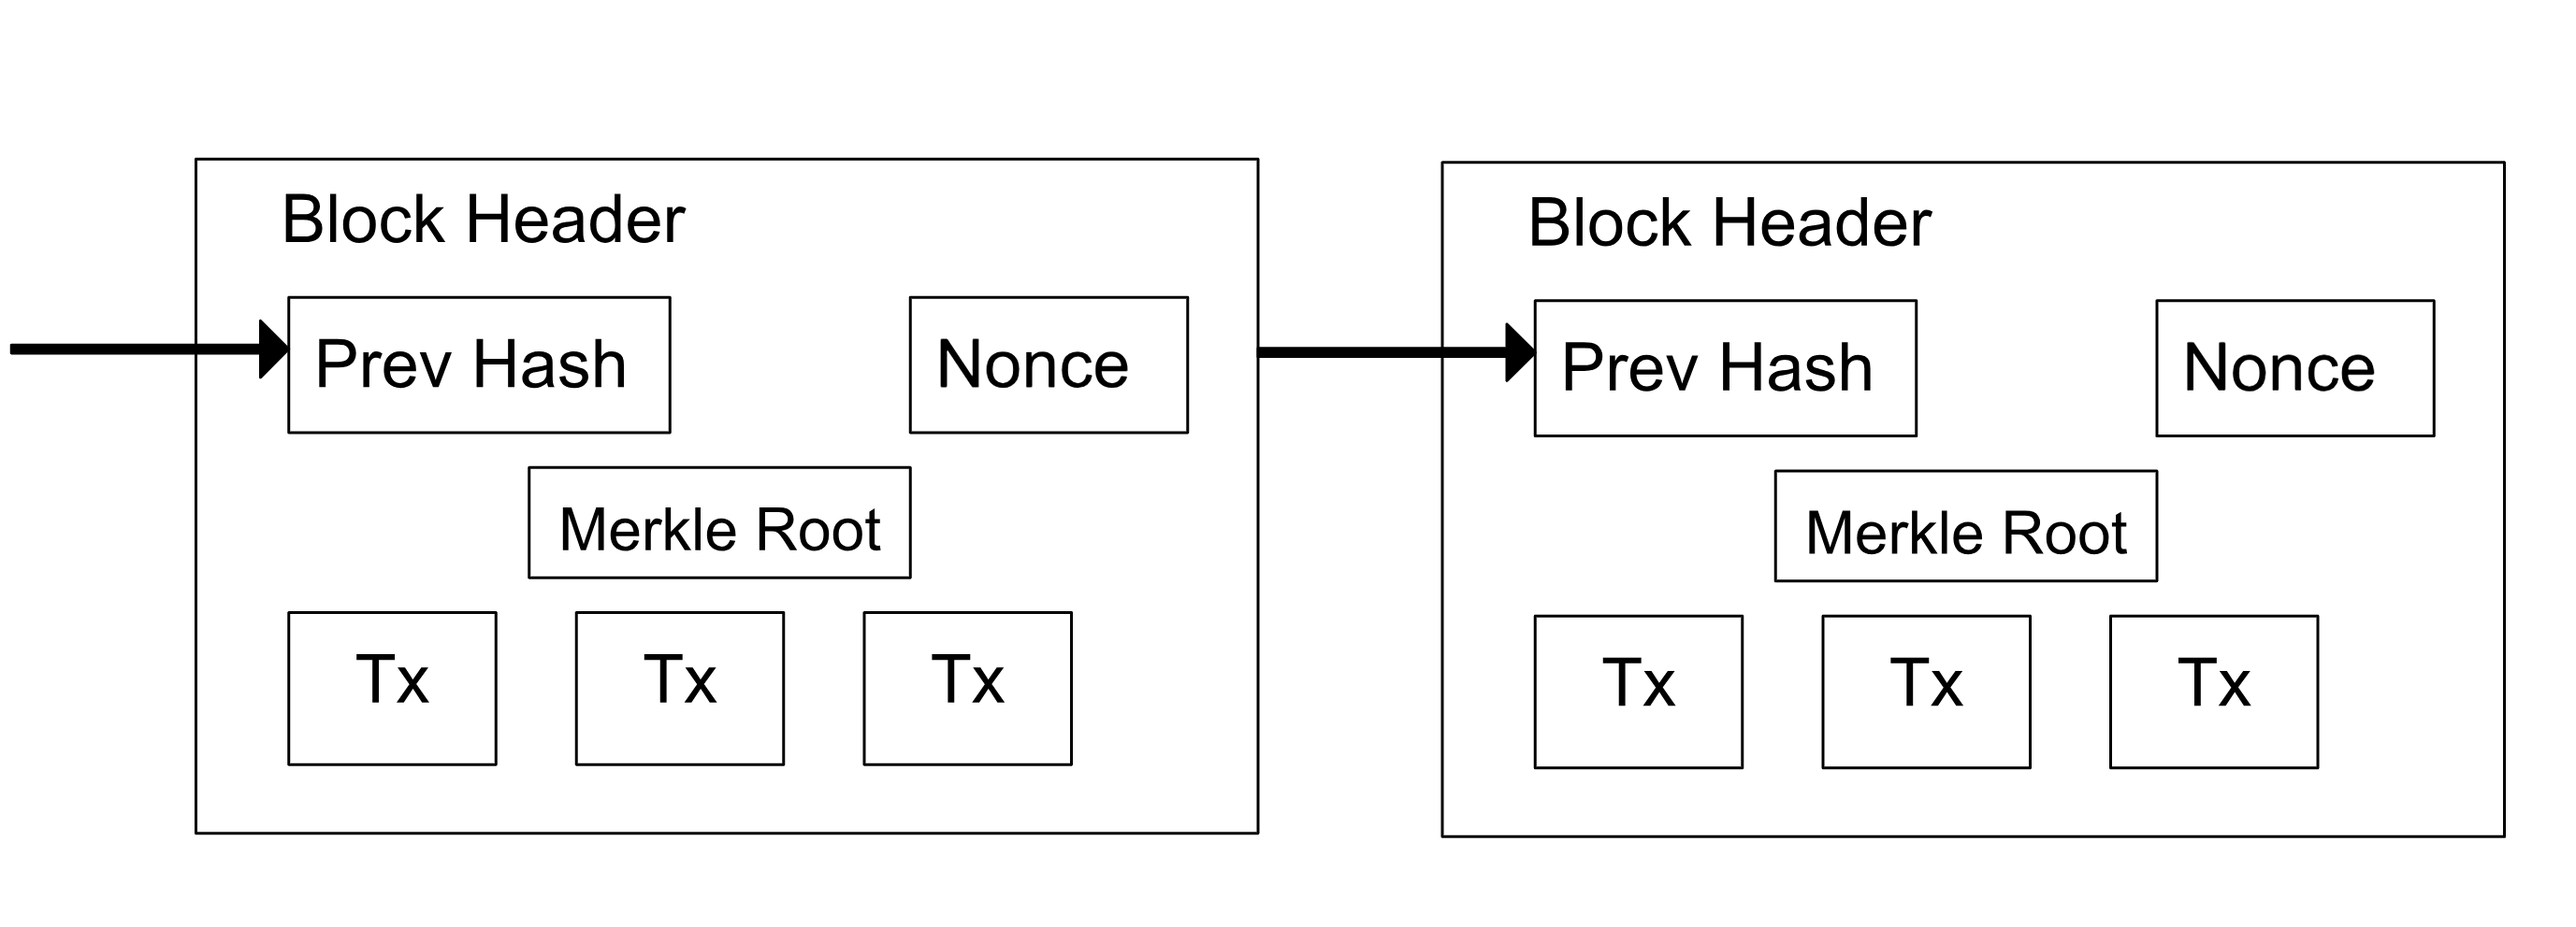
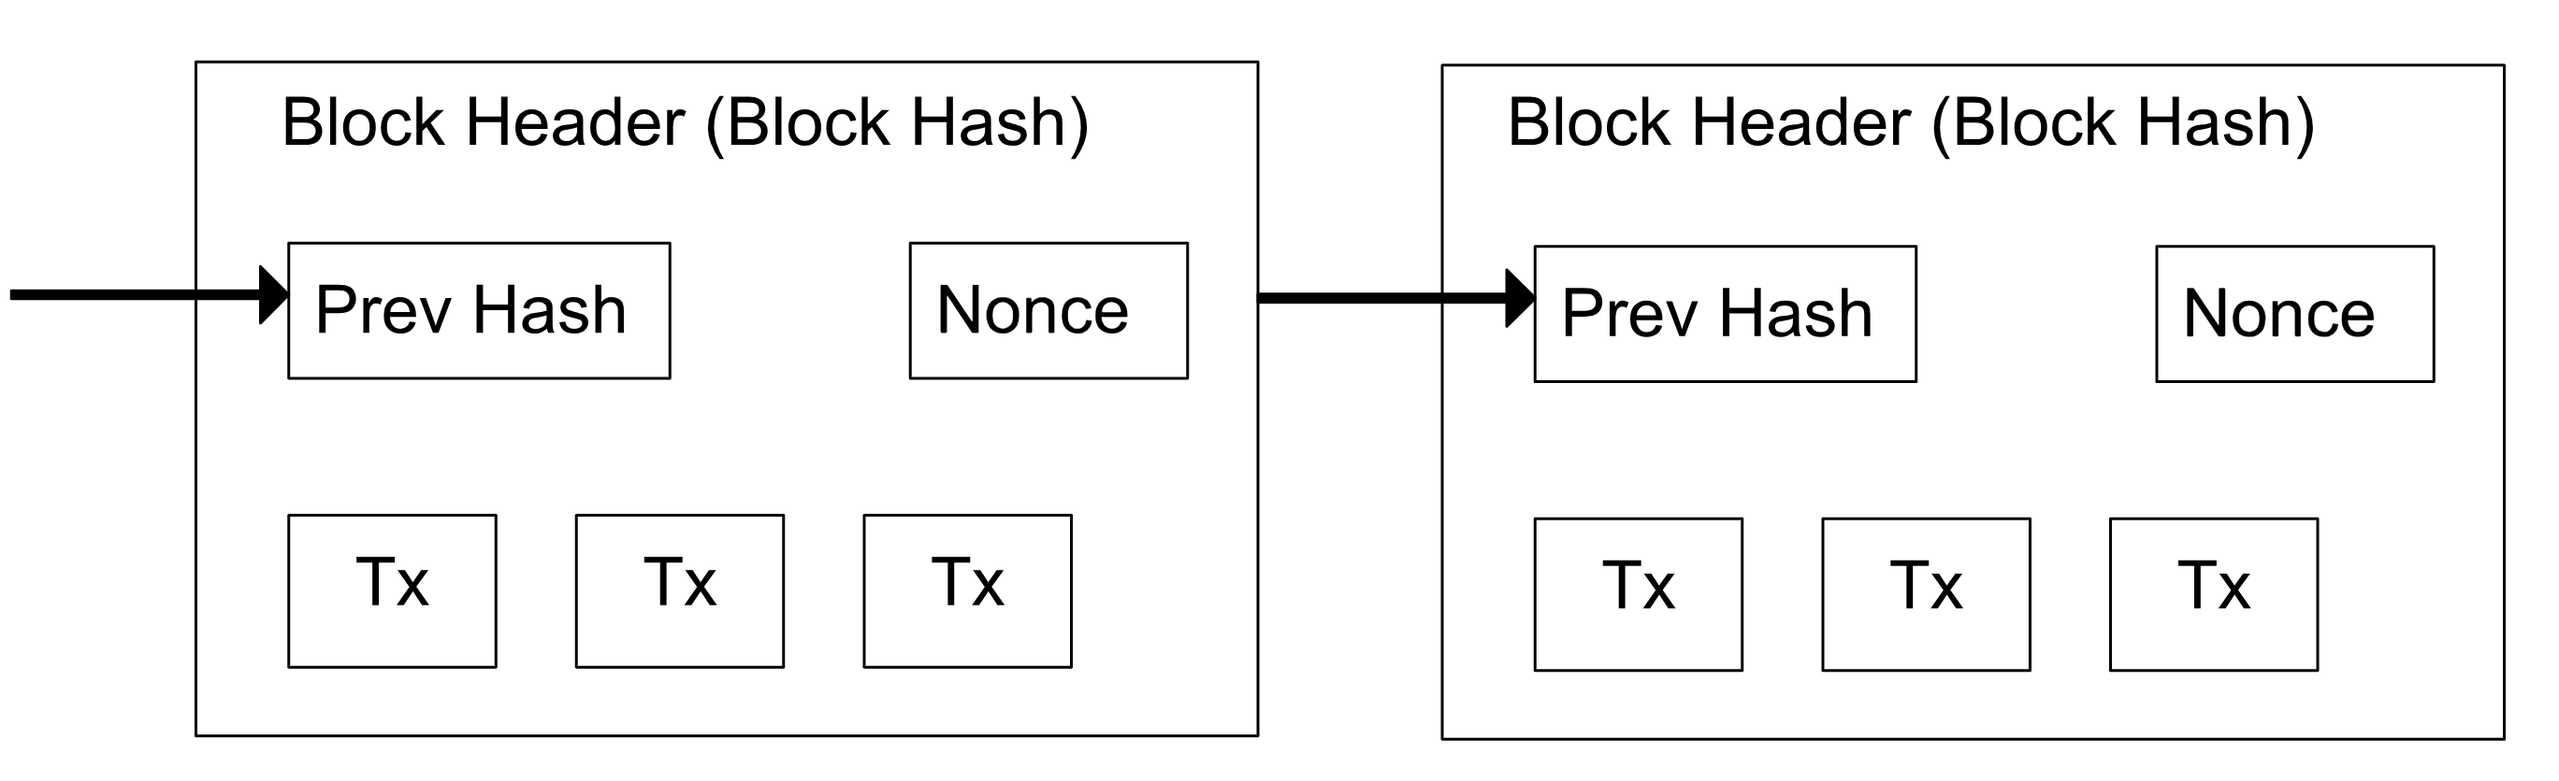
Add  subsection  Bitcoin:  creation  and  reward

diff --git a/bare_conf_compsoc.tex b/bare_conf_compsoc.tex
@@ -553,12 +553,12 @@ Because of that, creation of fully independent and distributed digital currency 
 However, after financial crisis in 2008 which caused millions of people around the world to loose their homes and jobs and additionally tanking major global economies such as USA and EU [5].
 As a consequence, interest in alternative ways of doing financial operations outside of traditional banking system was rekindled. 
 In addition, people already knew what kind of advantages digital currency could bring. Here are some examples:
-\begin{enumerate}
+\begin{itemize}
   \item Easy accounting and access. 
   \item International. 
   \item Cheap. 
   \item Internet ready
-\end{enumerate}
+\end{itemize}
 
 \subsection{Blockchain: blueprint for Bitcoin}
 Coincidentally, in October of 2008 someone releases a paper addressing this issue. 
@@ -580,11 +580,11 @@ There is no single definition for Bitcoin.
 But we can characterize it as a digital ledger that lists financial transactions and is distributed across blockchain network. 
 From original white paper we know how this network organized: 
 
-\begin{enumerate}
+\begin{itemize}
   \item Transactions are grouped together into blocks 
   \item Maximum number of transactions per block is ~2600. 
   \item New block is generated every ~10 minutes.
-\end{enumerate}
+\end{itemize}
 
 As it can be seen on Figure 1 each block is linked to previous block by using its hashed version. 
 
@@ -694,21 +694,59 @@ Figure 5 depicts transaction with multiple inputs and two outputs.
 \end{figure}
 
 As it has been already mentioned, each block contains several thousand transactions. 
-Visually it can be presented on Figure 1. 
+Visually it can be represented by Figure 1. 
+
 However, in reality Bitcoin network does something different. 
 In order to save space by not including the whole transaction body, but keep previous hash inside each block valid, all transaction are hashed in a tree structure called Merkle tree [9].
 It works by grouping transactions in pairs and hashing them until one single hash is obtained which is called merkle root. 
 If even one of the transactions is altered in any way after Merkle tree is constructed, merkle root will be completely different. 
 This root is included in each block.
-For better understanding, Figure 6 displays the Merkle tree
+So, Figure 1 can be adjusted to Figure 6
+
+\begin{figure}[h]
+  \centering
+  \includegraphics[width=.45\textwidth]{graphics/blocks_merkle.png}
+  \caption{Bitcoin blocks with merkle root}
+  \label{fig:fig6}
+\end{figure}
+
+Figure 7 displays how Merkle tree is constructed with four transactions.
 
 \begin{figure}[h]
   \centering
   \includegraphics[width=.45\textwidth]{graphics/merkle.png}
   \caption{Merkle Tree}
-  \label{fig:fig6}
+  \label{fig:fig7}
 \end{figure}
 
+\subsubsection{Bitcoin: creation and reward}
+It is not a secret that government is responsible for printing new money into the financial system. 
+At least, it is true for traditional fiat currencies.
+But Bitcoin is fundamentally different in a sense that there is no central authority.
+So how new bitcoins are created?
+The process of issuing new coins tied closely to mining mechanism. 
+In order to make nodes spend their computational resources on mining new blocks, network adds special transaction to a block. 
+This transaction is addressed to a node that successfully mined a block and contains a reward. 
+In other words, reward is way for a network to issue new coins into the system. 
+However, bitcoin is deflationary currency. 
+It means that there is finite number of bitcoins that will be created. 
+It is achieved by reducing reward in half roughly every four years. 
+Here is timeline showing how it works:
+
+\begin{itemize}
+    \item 01.2009 - 10.2012: 50 BTC
+    \item 10.2012 - 07.2016: 25 BTC
+    \item 07.2016 - 02.2020: 12.5 BTC (current reward)
+    \item 02.2020 - 09.2023: 6.25 BTC
+    \item ...
+\end{itemize}
+
+It is calculated that in total there will be no more that twenty one million of bitcoins. 
+Possibly even less, due to the fact that if private key for the wallet is lost, all associated bitcoins are also gone forever. 
+
+But what will be incentive for miners to keep working after reward is really small or equals to zero? 
+Well, it is known that each transaction can have at most two outputs: one for recipient, one for returning the change. 
+But if second output is not specified and input value is greater than output, then the difference is counted as a transaction fee and it goes to the block miner.
 
 
 \section{Conclusion}
